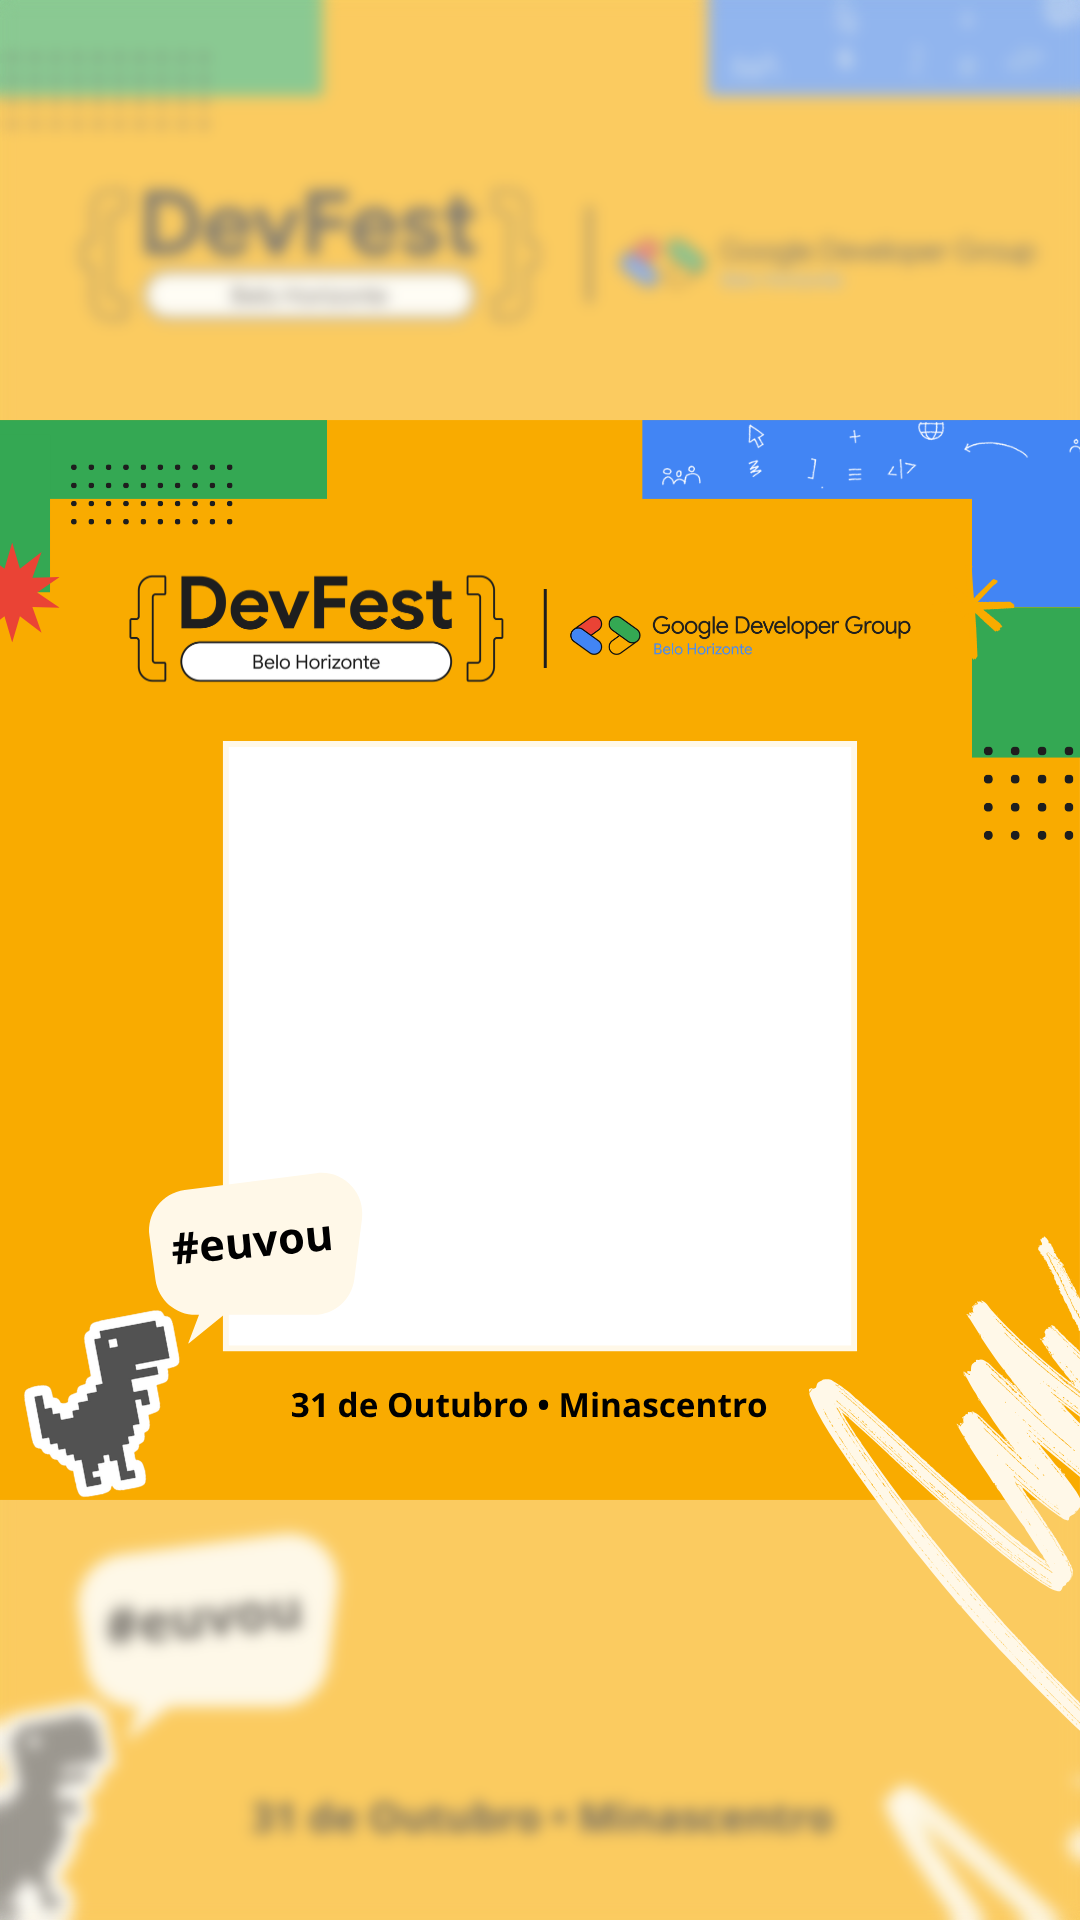
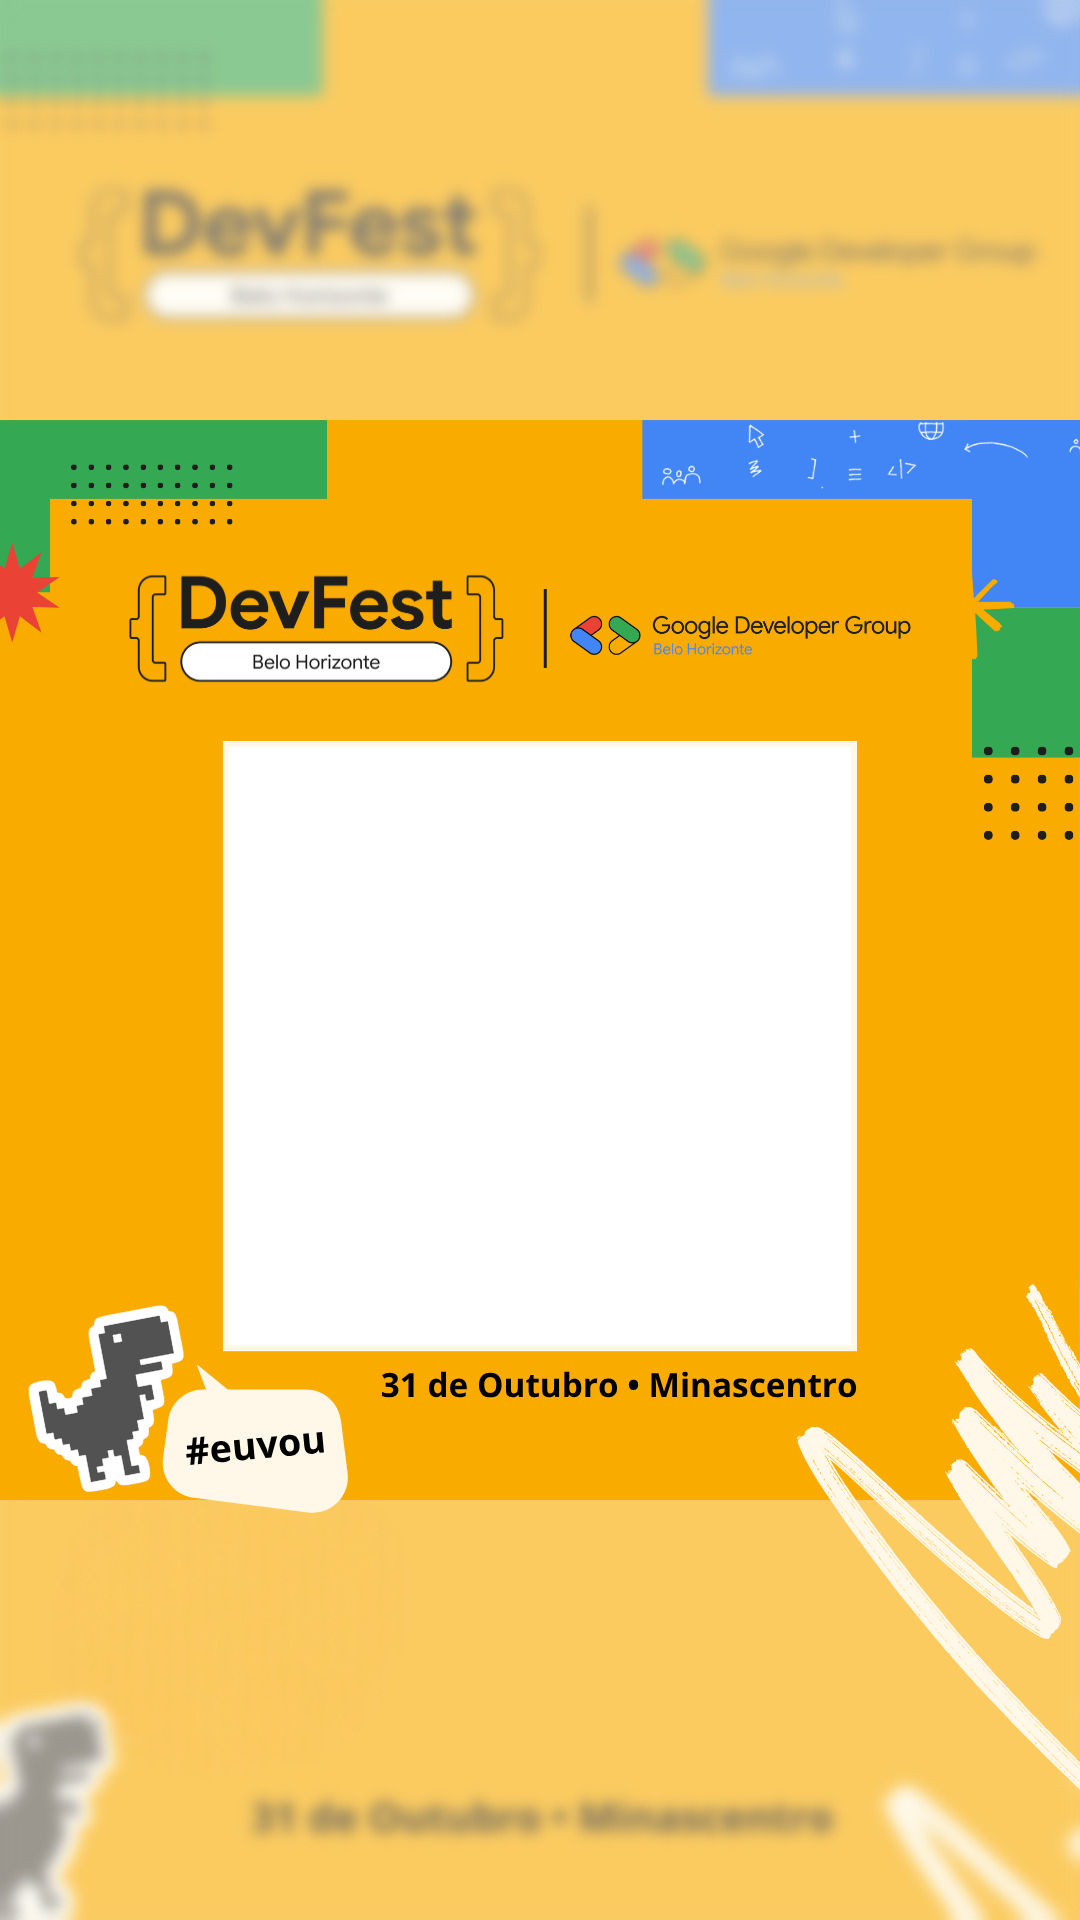
fix: Adjust photoArea height in Schedule2026 component and remove unused clipping code

Changed region(s): [[0.0, 0.5938, 1.0, 0.9375]]

diff --git a/src/components/pages/DevFest2026/Schedule2026/index.tsx b/src/components/pages/DevFest2026/Schedule2026/index.tsx
@@ -389,7 +389,7 @@ export default function Schedule2026() {
         // Keep the white border and place the uploaded image only inside it.
         // Extend the lower edge under the speech bubble so the original white
         // placeholder border does not appear as a rectangle behind it.
-        const photoArea = { left: 229, top: 747, width: 622, height: 620 };
+        const photoArea = { left: 229, top: 747, width: 622, height: 600 };
         const coverScale = Math.max(photoArea.width / photo.naturalWidth, photoArea.height / photo.naturalHeight);
         const scaledWidth = photo.naturalWidth * coverScale * shareCardZoom;
         const scaledHeight = photo.naturalHeight * coverScale * shareCardZoom;
@@ -403,27 +403,7 @@ export default function Schedule2026() {
         context.drawImage(photo, left, top, scaledWidth, scaledHeight);
         context.restore();
 
-        // The artwork is flattened, so restore the original bubble artwork
-        // through its silhouette. This preserves its typography and dimensions
-        // without restoring the white placeholder rectangle.
-        context.save();
-        context.beginPath();
-        context.moveTo(150, 1190);
-        context.bezierCurveTo(150, 1168, 171, 1152, 201, 1149);
-        context.lineTo(319, 1138);
-        context.bezierCurveTo(350, 1136, 371, 1153, 375, 1181);
-        context.lineTo(381, 1260);
-        context.bezierCurveTo(383, 1290, 363, 1310, 335, 1314);
-        context.lineTo(247, 1320);
-        context.lineTo(212, 1367);
-        context.lineTo(215, 1317);
-        context.lineTo(181, 1309);
-        context.bezierCurveTo(158, 1303, 147, 1281, 149, 1257);
-        context.closePath();
-        context.clip();
-        context.drawImage(frame, 0, 0);
-        context.restore();
-
+     
         return canvas.toDataURL('image/png');
     }, [shareCardImage, shareCardPosition, shareCardZoom]);
 
